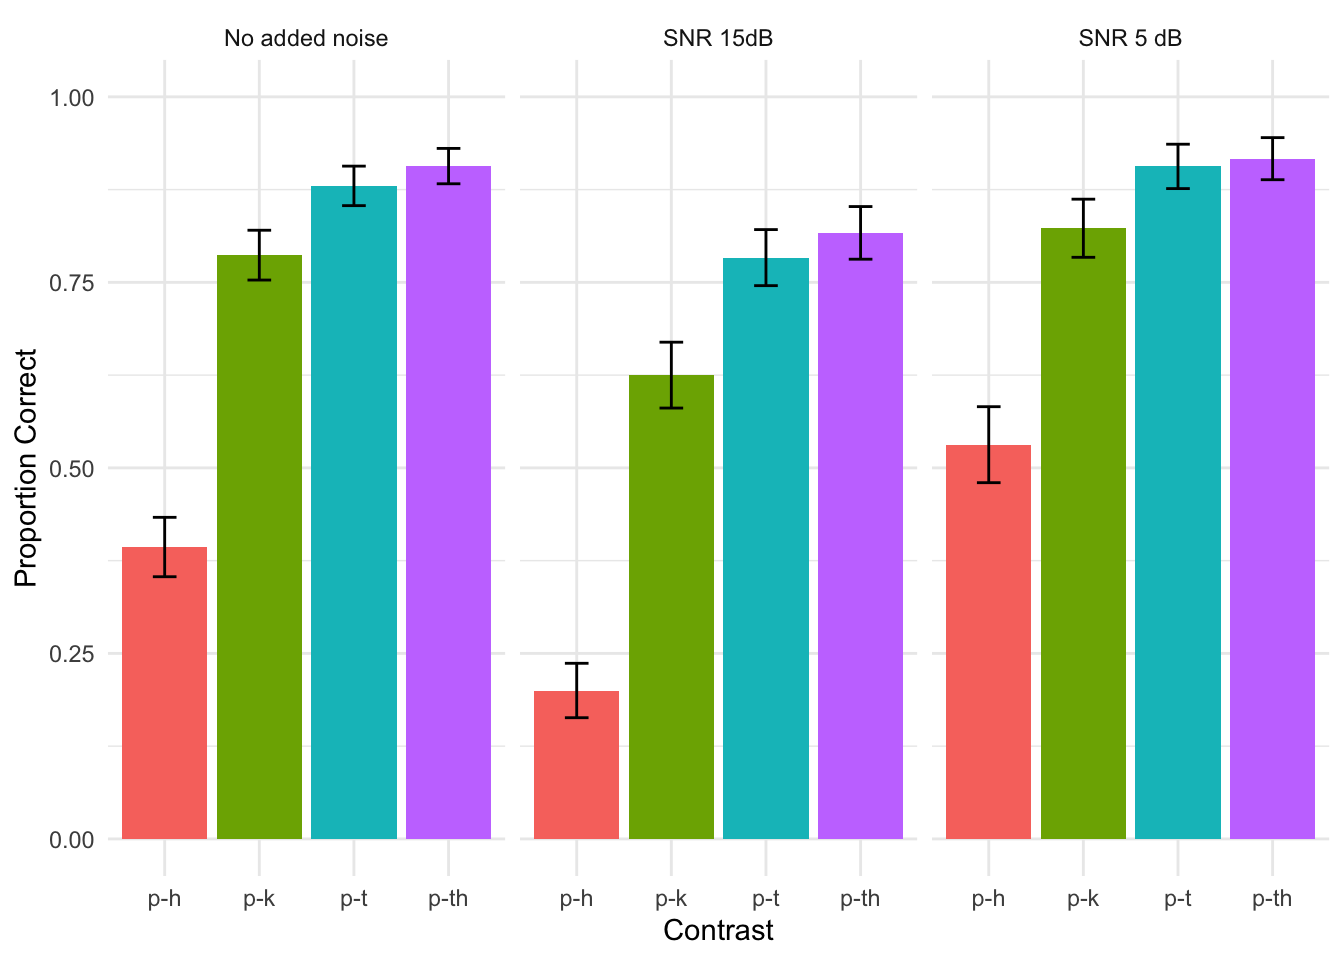
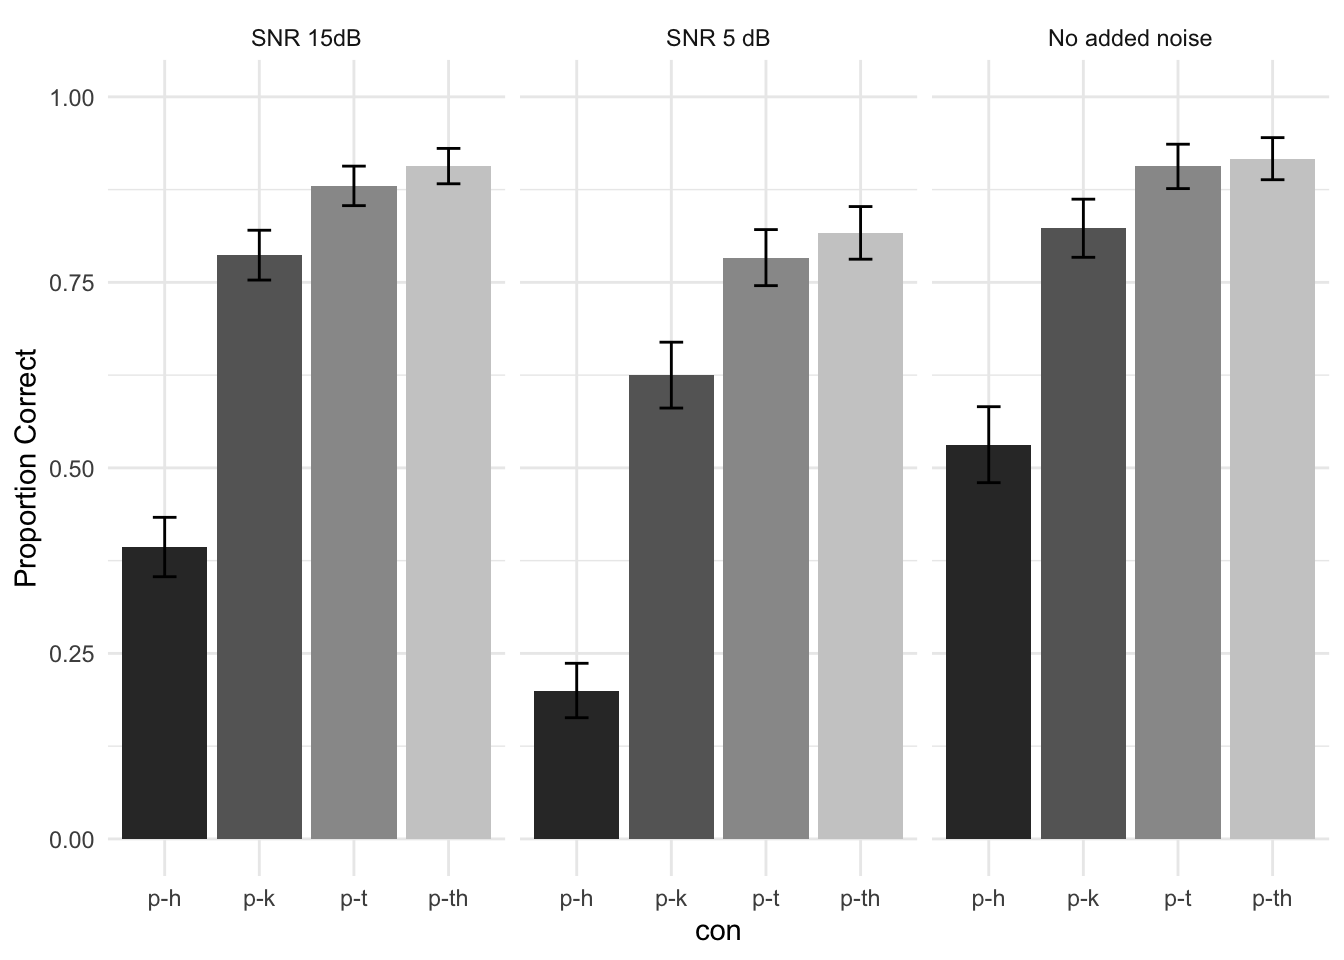
grey scale plot

diff --git a/docs/AX_task_results.html b/docs/AX_task_results.html
@@ -312,9 +312,9 @@ library(dplyr)
 
 # new names for snr facet labels
 snr_names &lt;- list(
-  &quot;clean&quot;=&quot;No added noise&quot;,
   &quot;15&quot;=&quot;SNR 15dB&quot;,
-  &quot;5&quot;=&quot;SNR 5 dB&quot;)
+  &quot;5&quot;=&quot;SNR 5 dB&quot;,
+  &quot;clean&quot;=&quot;No added noise&quot;)
 
 # use the labeller function in facet
 snr_labeller &lt;- function(variable,value){
@@ -330,14 +330,16 @@ summary_filtered_full_data &lt;- filtered_full_data %&gt;%
   mutate(se_corr = sd_corr / sqrt(n))  # Calculate Standard Error
 
 # Plot using ggplot2
-
-ggplot(summary_filtered_full_data, aes(x = con, y = mean_corr, fill = con)) +
+grey_colors &lt;- c(&quot;grey20&quot;, &quot;grey40&quot;, &quot;grey60&quot;, &quot;grey80&quot;)
+full_plot &lt;- ggplot(summary_filtered_full_data, aes(x = con, y = mean_corr, fill = con)) +
   geom_bar(stat = &quot;identity&quot;, position = &quot;dodge&quot;, show.legend = FALSE) + ylim(0,1)+
   geom_errorbar(aes(ymin = mean_corr - se_corr, ymax = mean_corr + se_corr),
                 position = position_dodge(width = 0.9), width = 0.25) +
   facet_wrap(~snr,ncol = 3, labeller = snr_labeller) +
-  labs(x = &quot;Contrast&quot;, y = &quot;Proportion Correct&quot;, fill = &quot;Contrast&quot;) +
-  theme_minimal()</code></pre>
+  labs(x = &quot;con&quot;, y = &quot;Proportion Correct&quot;, fill = &quot;Contrast&quot;) +
+  scale_fill_manual(values = grey_colors) +
+  theme_minimal()
+full_plot</code></pre>
 <p><img src="AX_task_results_files/figure-html/unnamed-chunk-3-1.png" width="672" /></p>
 </div>
 <div id="model" class="section level1">
